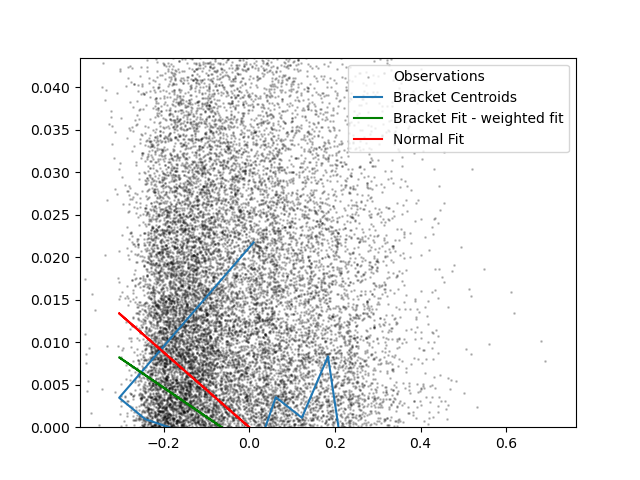
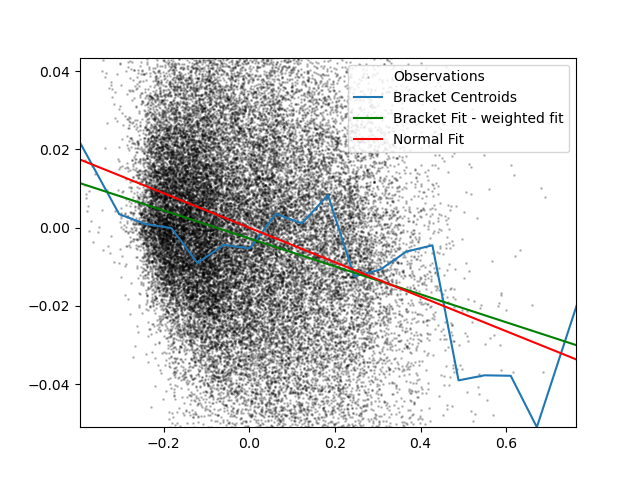
refactoring

diff --git a/data_scripts/data_generator.py b/data_scripts/data_generator.py
@@ -1003,8 +1003,8 @@ class WindSimulationTool(RenewablesSimulationTool):
         )
         intervals = np.arange(min(df[self.vre_tag]), max(df[self.vre_tag]), (max(df[self.vre_tag])-min(df[self.vre_tag]))/20)
         centres = np.zeros(len(intervals)-1)
-        centres[0] = 0.01
-        centres[-1] = 0.85
+        centres[0] = min(df[self.vre_tag])
+        centres[-1] = max(df[self.vre_tag])
         for l in range(1, len(centres) - 1):
             centres[l] = (intervals[l+1] + intervals[l]) / 2
 
@@ -1097,7 +1097,7 @@ class WindSimulationTool(RenewablesSimulationTool):
             plt.plot(centres, pol_model_mode(centres), color= "green", label = "Bracket Fit - weighted fit")
             plt.plot(centres, pol_model_mode_easy(centres), color='red', label = "Normal Fit")
             plt.xlim(intervals[0],intervals[-1])
-            plt.ylim(0,2*max(ModeParaList))
+            plt.ylim(min(ModeParaList),2*max(ModeParaList))
             plt.legend()
             plt.savefig('documentation/exp_model_fit_modevalues.png')
             plt.close()
@@ -1446,82 +1446,3 @@ class DataForecaster:
         plt.savefig(f'documentation/annual_duration_curve_{resource}.png')
         plt.close()
 
-#%% Main
-if __name__ == '__main__':
-    documentation = False
-
-    #%% Data retrieval - There is only data from 2015 and forward for Portugal
-    start   = pd.Timestamp('20160101', tz='UTC')
-    end     = pd.Timestamp('20201231', tz='UTC')
-    data_object = HistoricalData(start=start, end=end, country_code='PT', server='ENTSOE')
-
-    #%% Forecasting setup
-    forecaster = DataForecaster(data_object,
-                                documentation=documentation,
-                                seasonal_price_regression=True,
-                                cache_id="seasonal",
-                                cache_replace=False,
-                                log_vre=False,
-                                verbose=True,
-                                )
-    
-    # Historical crosscorrelations
-    wind_solar_price_corr = {}
-    wind_solar_price_corr['wind-solar-hist']    = np.corrcoef(forecaster.train_data.loc[forecaster.train_data.is_day,'solar'], forecaster.train_data.loc[forecaster.train_data.is_day,'wind'])[0,1]
-    wind_solar_price_corr['price-solar-hist']   = np.corrcoef(forecaster.train_data.loc[forecaster.train_data.is_day,'solar'], forecaster.train_data.loc[forecaster.train_data.is_day,'price'])[0,1]
-    wind_solar_price_corr['wind-price-hist']    = np.corrcoef(forecaster.train_data['price'], forecaster.train_data['wind'])[0,1]
-
-    forecaster.build_simulation_models(hmm=False)
-
-    #%% Simulate a full year
-    year = forecaster.test_data.index.year.unique()
-    year= year[0] if len(year) == 1 else 2020
-    n_sims = 50
-    t_s = time()
-    print(f"Simulating {year} {n_sims} times with {data_object.caps.to_dict()}")
-    simulations = forecaster.simulate(year, data_object.caps, n_sims=n_sims)
-    print(f"Simulated {len(simulations)} scenarios for year {year} in {time()-t_s:.2f} seconds.")
-    if documentation:
-        forecaster.investigate_test_simulation_monthly(simulations, resource='price')
-        forecaster.investigate_test_simulation_monthly(simulations, resource='wind')
-        forecaster.investigate_test_simulation_monthly(simulations, resource='solar')
-        forecaster.investigate_annual_duration_curves(simulations, year=year, resource='price')
-        forecaster.investigate_annual_duration_curves(simulations, year=year, resource='wind')
-        forecaster.investigate_annual_duration_curves(simulations, year=year, resource='solar')
-    
-    #%% Some plots and statistics
-    if documentation:
-        plot_horizon = 4*24
-        start_hour = 3000
-        end_hour = start_hour + plot_horizon
-        fig, ax1 = plt.subplots(1, figsize=(15,12))
-        ax2 = ax1.twinx()
-        ax1.plot(simulations[0]['price'].index[start_hour:end_hour],simulations[0]['price'].iloc[start_hour:end_hour], color='black', label='Prices')
-        ax2.plot(simulations[0]['price'].index[start_hour:end_hour],simulations[0]['solar'].iloc[start_hour:end_hour], color='red', label='Solar')
-        ax2.plot(simulations[0]['price'].index[start_hour:end_hour],simulations[0]['wind'].iloc[start_hour:end_hour], color='blue', label='Wind')
-        ax1.set_ylabel('€/MWh')
-        ax2.set_ylabel('MW')
-        h1, l1 = ax1.get_legend_handles_labels()
-        h2, l2 = ax2.get_legend_handles_labels()
-        plt.legend(handles = h1+h2, labels=l1+l2)
-        plt.savefig('documentation/simulated_profiles.png')
-        plt.close()
-
-    # Statistics on crosscorrelation of simulated data.
-    t_i = data_object._specify_time_data(simulations[0]['price'])
-    wind_solar_price_corr['wind-solar']     = np.mean([np.corrcoef(sim['wind'].loc[t_i.is_day, 'wind'].values, sim['solar'].loc[t_i.is_day, 'solar'].values)[0,1] for sim in simulations])
-    wind_solar_price_corr['price-solar']    = np.mean([np.corrcoef(sim['price'].loc[t_i.is_day, 'price'].values, sim['solar'].loc[t_i.is_day, 'solar'].values)[0,1] for sim in simulations])
-    wind_solar_price_corr['wind-price']     = np.mean([np.corrcoef(sim['wind']['wind'].values, sim['price']['price'].values)[0,1] for sim in simulations])
-    wind_solar_price_corr['wind-solar-std']     = np.std([np.corrcoef(sim['wind'].loc[t_i.is_day, 'wind'].values, sim['solar'].loc[t_i.is_day, 'solar'].values)[0,1] for sim in simulations])
-    wind_solar_price_corr['price-solar-std']    = np.std([np.corrcoef(sim['price'].loc[t_i.is_day, 'price'].values, sim['solar'].loc[t_i.is_day, 'solar'].values)[0,1] for sim in simulations])
-    wind_solar_price_corr['wind-price-std']     = np.std([np.corrcoef(sim['wind']['wind'].values, sim['price']['price'].values)[0,1] for sim in simulations])
-    print("Crosscorrelations (historical vs simulated):")
-    for k,v in wind_solar_price_corr.items():
-        print(f"{k}: {v:.3f}")
-    
-    #%% Save simulations
-    conv_sims = []
-    for sim in simulations:
-        conv_sims.append(pd.concat([sim['solar'], sim['wind'], sim['price']], axis=1))
-    cache_write(conv_sims, f'simulations/{n_sims}_simulated_scenarios_list_{year}_{int(time())}.pkl', verbose=True)
-# %%

diff --git a/sim_tool_tester.py b/sim_tool_tester.py
@@ -1,0 +1,81 @@
+from data_scripts import DataForecaster, HistoricalData
+import numpy as np
+import pandas as pd
+import matplotlib.pyplot as plt
+from time import time
+from utils import cache_write
+
+documentation = False
+
+#%% Data retrieval - There is only data from 2015 and forward for Portugal
+start   = pd.Timestamp('20160101', tz='UTC')
+end     = pd.Timestamp('20201231', tz='UTC')
+data_object = HistoricalData(start=start, end=end, country_code='PT', server='ENTSOE')
+
+#%% Forecasting setup
+forecaster = DataForecaster(data_object,
+                            documentation=documentation,
+                            seasonal_price_regression=True,
+                            cache_id='seasonal',
+                            verbose=True,
+                            )
+
+# Historical crosscorrelations
+wind_solar_price_corr = {}
+wind_solar_price_corr['wind-solar-hist']    = np.corrcoef(forecaster.train_data.loc[forecaster.train_data.is_day,'solar'], forecaster.train_data.loc[forecaster.train_data.is_day,'wind'])[0,1]
+wind_solar_price_corr['price-solar-hist']   = np.corrcoef(forecaster.train_data.loc[forecaster.train_data.is_day,'solar'], forecaster.train_data.loc[forecaster.train_data.is_day,'price'])[0,1]
+wind_solar_price_corr['wind-price-hist']    = np.corrcoef(forecaster.train_data['price'], forecaster.train_data['wind'])[0,1]
+
+forecaster.build_simulation_models(hmm=False)
+
+#%% Simulate a full year
+year = forecaster.test_data.index.year.unique()
+year= year[0] if len(year) == 1 else 2020
+n_sims = 50
+t_s = time()
+print(f"Simulating {year} {n_sims} times with {data_object.caps.to_dict()}")
+simulations = forecaster.simulate(year, data_object.caps, n_sims=n_sims)
+print(f"Simulated {len(simulations)} scenarios for year {year} in {time()-t_s:.2f} seconds.")
+if documentation:
+    forecaster.investigate_test_simulation_monthly(simulations, resource='price')
+    forecaster.investigate_test_simulation_monthly(simulations, resource='wind')
+    forecaster.investigate_test_simulation_monthly(simulations, resource='solar')
+    forecaster.investigate_annual_duration_curves(simulations, year=year, resource='price')
+    forecaster.investigate_annual_duration_curves(simulations, year=year, resource='wind')
+    forecaster.investigate_annual_duration_curves(simulations, year=year, resource='solar')
+
+#%% Some plots and statistics
+if documentation:
+    plot_horizon = 4*24
+    start_hour = 3000
+    end_hour = start_hour + plot_horizon
+    fig, ax1 = plt.subplots(1, figsize=(15,12))
+    ax2 = ax1.twinx()
+    ax1.plot(simulations[0]['price'].index[start_hour:end_hour],simulations[0]['price'].iloc[start_hour:end_hour], color='black', label='Prices')
+    ax2.plot(simulations[0]['price'].index[start_hour:end_hour],simulations[0]['solar'].iloc[start_hour:end_hour], color='red', label='Solar')
+    ax2.plot(simulations[0]['price'].index[start_hour:end_hour],simulations[0]['wind'].iloc[start_hour:end_hour], color='blue', label='Wind')
+    ax1.set_ylabel('€/MWh')
+    ax2.set_ylabel('MW')
+    h1, l1 = ax1.get_legend_handles_labels()
+    h2, l2 = ax2.get_legend_handles_labels()
+    plt.legend(handles = h1+h2, labels=l1+l2)
+    plt.savefig('documentation/simulated_profiles.png')
+    plt.close()
+
+# Statistics on crosscorrelation of simulated data.
+t_i = data_object._specify_time_data(simulations[0]['price'])
+wind_solar_price_corr['wind-solar']     = np.mean([np.corrcoef(sim['wind'].loc[t_i.is_day, 'wind'].values, sim['solar'].loc[t_i.is_day, 'solar'].values)[0,1] for sim in simulations])
+wind_solar_price_corr['price-solar']    = np.mean([np.corrcoef(sim['price'].loc[t_i.is_day, 'price'].values, sim['solar'].loc[t_i.is_day, 'solar'].values)[0,1] for sim in simulations])
+wind_solar_price_corr['wind-price']     = np.mean([np.corrcoef(sim['wind']['wind'].values, sim['price']['price'].values)[0,1] for sim in simulations])
+wind_solar_price_corr['wind-solar-std']     = np.std([np.corrcoef(sim['wind'].loc[t_i.is_day, 'wind'].values, sim['solar'].loc[t_i.is_day, 'solar'].values)[0,1] for sim in simulations])
+wind_solar_price_corr['price-solar-std']    = np.std([np.corrcoef(sim['price'].loc[t_i.is_day, 'price'].values, sim['solar'].loc[t_i.is_day, 'solar'].values)[0,1] for sim in simulations])
+wind_solar_price_corr['wind-price-std']     = np.std([np.corrcoef(sim['wind']['wind'].values, sim['price']['price'].values)[0,1] for sim in simulations])
+print("Crosscorrelations (historical vs simulated):")
+for k,v in wind_solar_price_corr.items():
+    print(f"{k}: {v:.3f}")
+
+#%% Save simulations
+conv_sims = []
+for sim in simulations:
+    conv_sims.append(pd.concat([sim['solar'], sim['wind'], sim['price']], axis=1))
+cache_write(conv_sims, f'simulations/{n_sims}_simulated_scenarios_list_{year}_{int(time())}.pkl', verbose=True)

diff --git a/data_scripts/data_loader.py b/data_scripts/data_loader.py
@@ -256,9 +256,9 @@ def historical_price_inspection(data_object : HistoricalData):
     plt.savefig('documentation/historical_daily_price_duration_curves.png')
     plt.close()
 
-if __name__ == "__main__":
-    #%% Load historical data
-    start   = pd.Timestamp('20150101', tz='UTC')
-    end     = pd.Timestamp('20221231', tz='UTC')
-    data_object = HistoricalData(start=start, end=end, country_code='PT', server='ENTSOE')
-    historical_price_inspection(data_object)
+#%% Main example
+#     #%% Load historical data
+#     start   = pd.Timestamp('20150101', tz='UTC')
+#     end     = pd.Timestamp('20221231', tz='UTC')
+#     data_object = HistoricalData(start=start, end=end, country_code='PT', server='ENTSOE')
+#     historical_price_inspection(data_object)

diff --git a/RFP_environment.py b/RFP_environment.py
@@ -1,7 +1,5 @@
 import gymnasium as gym
 import numpy as np
-import pandas as pd
-import os
 from RFP_initialization import RenewableFuelPlant, make_rfp
 
 class RFPEnv(gym.Env):
@@ -238,5 +236,3 @@ def make_rfp_env(normalize:bool=True):
     rfp = make_rfp()
     env = RFPEnv(rfp, normalize=normalize)
     return env
-    
-
